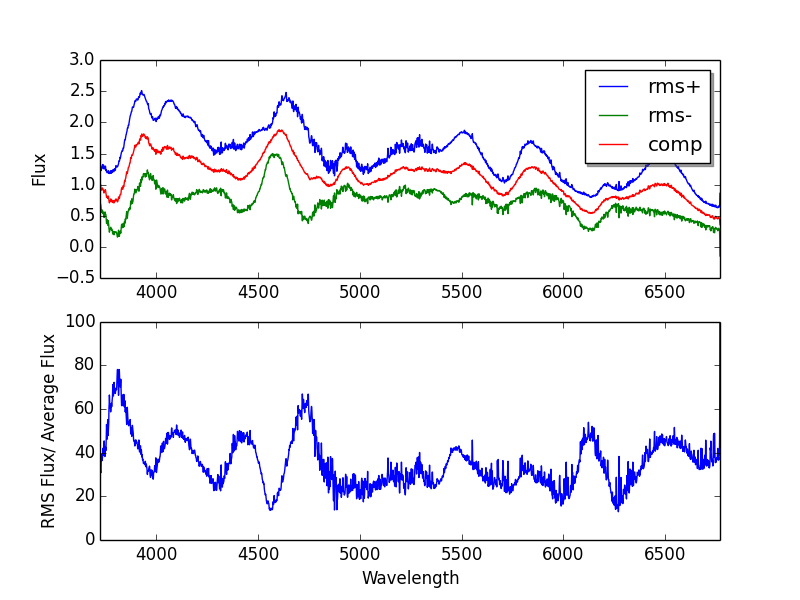
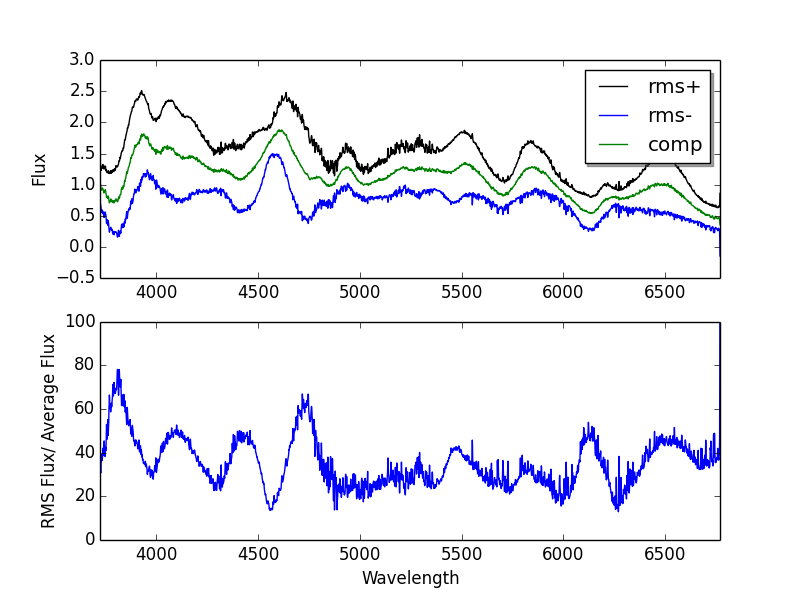
old code

diff --git a/personal/AaronBeaudoin/week3/specavg.py b/personal/AaronBeaudoin/week3/specavg.py
@@ -22,7 +22,6 @@ for i in range(num):
 	except ValueError:
 		bad_files.append(spectra_files[i])
 
-print len(spectra_arrays)
 #deredshift data
 parameters = Table.read('../../../data/cfa/cfasnIa_param.dat',format='ascii')
 sn_name = parameters["col1"]
@@ -81,7 +80,7 @@ for i in range(len(rms_flux)):
 #RMS Residual
 plt.figure(1)
 plt.subplot(211)
-plot1,=plt.plot(wavelength,avg_flux+rms_flux,label= 'rms+')
+plot1,=plt.plot(wavelength,avg_flux+rms_flux,label= 'rms+', color='k')
 plot2,=plt.plot(wavelength,avg_flux-rms_flux, label= 'rms-')
 plot3,=plt.plot(wavelength,avg_flux,label='comp')
 legend=plt.legend(loc='upper right', shadow=True)
